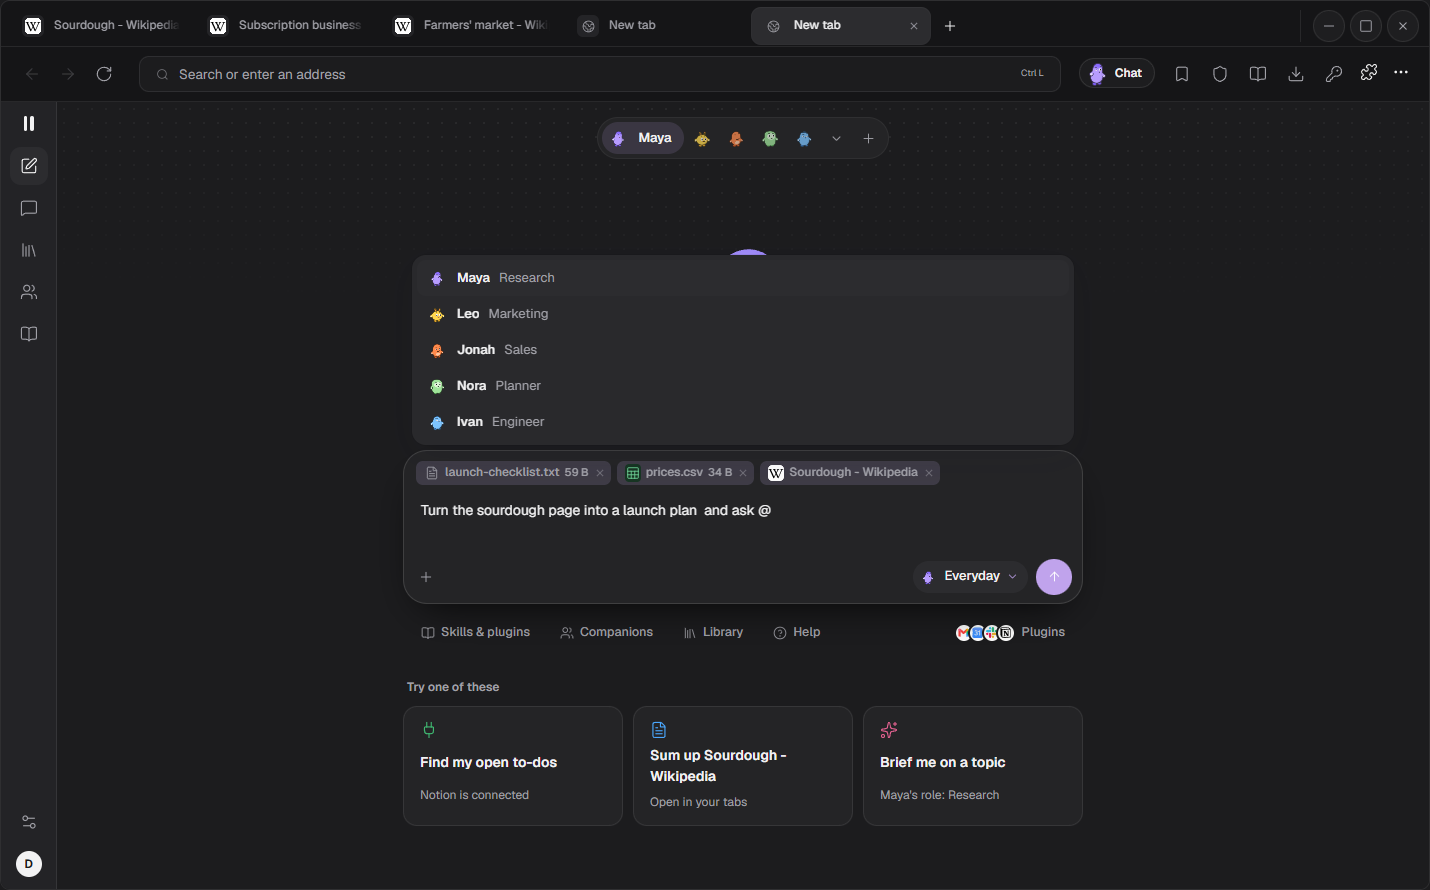
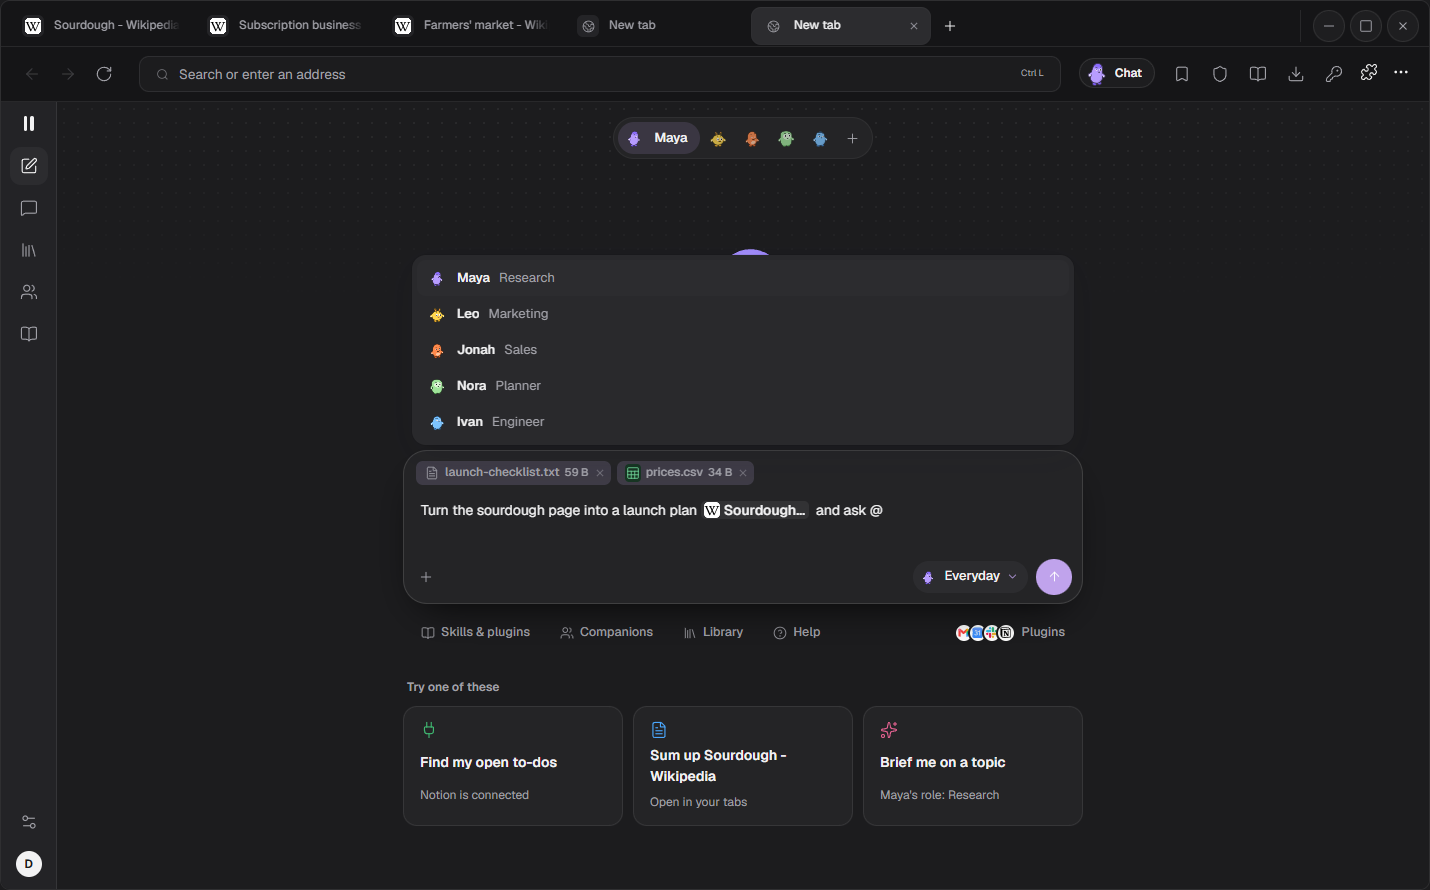
README: new screenshots of the current app
Retaken on today's build: the hire cards with name and role, the new skills list,
and the # tab mention cut to 10 characters. The library caption matches the cards.

Changed region(s): [[0.4923, 0.5157, 0.6769, 0.6067], [0.4, 0.1213, 0.5846, 0.182]]

diff --git a/README.md b/README.md
@@ -39,7 +39,7 @@ Six companions come ready to hire. Each one owns a part of your work and has its
 | **Maya** | Research | Deep research with cited sources, options compared side by side, claims fact-checked before you share them |
 | **Make your own** | Any job | Pick its look, name, job, way of talking, AI and skills, and give it a prop to hold |
 
-<p align="center"><img src="docs/screenshots/library.png" alt="Hire a companion: each card shows the character, its role, what to expect, Hire or Hired, and View profile" width="900"></p>
+<p align="center"><img src="docs/screenshots/library.png" alt="Hire a companion: each card shows the character, its role and name, what it does in a line, Hire or Hired, and View profile" width="900"></p>
 
 - **Hire in one click.** Each card shows the character, its role and what to expect. **View profile** shows its full instructions before you hire.
 - **They get to work.** A new hire opens its first chat by itself, says what it will do first and starts on real work.
